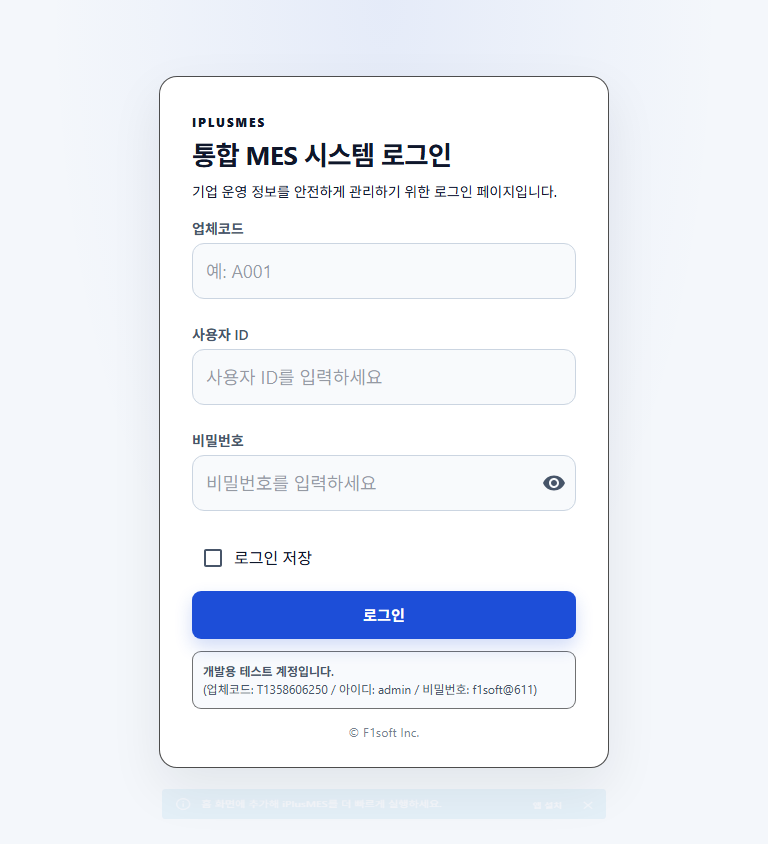
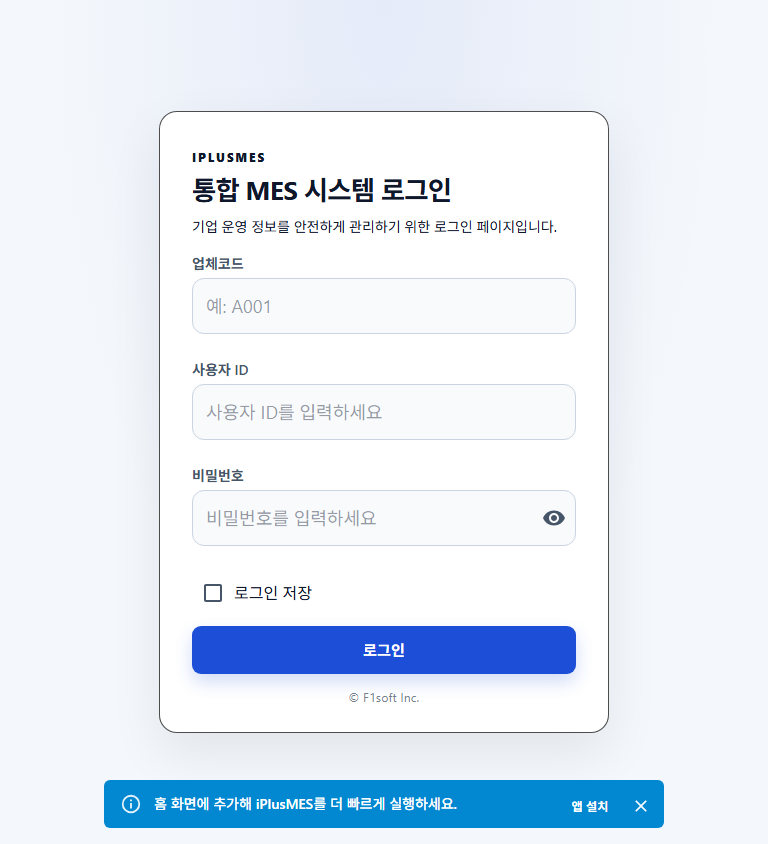
pwa 설치 기능 추가

diff --git a/docs/result/20261110/pwa-mobile-install/result.md b/docs/result/20261110/pwa-mobile-install/result.md
@@ -1,0 +1,42 @@
+# iPlusMES 모바일 PWA 설치 지원 결과
+
+## 작업 내용
+
+- `frontend/public/manifest.webmanifest`, 192/512 PWA 아이콘, 180 iOS touch icon과 `frontend/index.html`의 설치 메타데이터를 추가했다.
+- 기존 브랜드 push 아이콘을 기준으로 크기별 아이콘을 만들었다.
+- 앱 root에 설치 안내를 추가했다. 지원 브라우저는 사용자 클릭 시 native 설치 prompt를 열고, iOS는 공유 메뉴의 홈 화면 추가 방법을 안내한다.
+- 사용자가 설치 안내를 닫으면 다시 표시하지 않으며, 설치 완료/standalone 실행에서도 숨긴다. OS 알림 권한은 요청하지 않는다.
+- 기존 `/sw.js`, Web Push 등록 흐름, backend, API와 DB는 변경하지 않았다. 오프라인 캐시는 제공하지 않는다.
+
+## 검증
+
+- 통과: `npm run test -- tests/pwa-install-prompt.test.tsx tests/pwa-manifest.test.ts tests/push-service-worker.test.ts` — 16 tests
+- 통과: `npm run build`
+- 통과: `npx oxlint src/shared/components/PwaInstallPrompt.tsx src/App.tsx tests/pwa-install-prompt.test.tsx tests/pwa-manifest.test.ts tests/pwa-install.browser.mjs`
+- 통과: `node tests/pwa-install.browser.mjs` — 375px, 768px, 1280px, iOS 수동 설치 안내 및 manifest 확인
+- 통과: production build에 manifest 및 세 아이콘이 생성됨
+- 기존 로그인 통합 테스트 10개 중 9개 통과. 1개는 현재 화면의 MES 문구 대신 이전 ERP 문구를 기대하는 기존 assertion 불일치로 실패하며, PWA 변경 범위와 무관해 수정하지 않았다.
+
+## 브라우저 캡처
+
+- `screenshots/pwa-install-375px.png`
+- `screenshots/pwa-install-768px.png`
+- `screenshots/pwa-install-1280px.png`
+- `screenshots/pwa-install-ios-manual.png`
+
+캡처에서는 개발용 계정 정보를 제외했다. 브라우저 설치 테스트는 이미 실행 중이던 iPlusMES 개발 서버 `http://127.0.0.1:4173`을 재사용했다.
+
+## 운영 메모
+
+- 실제 설치에는 production에서 HTTPS가 필요하다. localhost는 개발 테스트용 secure context로 사용할 수 있다.
+- 브라우저 설치 가능성/메뉴는 브라우저 정책에 따르며, iOS에서는 사용자가 공유 메뉴에서 직접 홈 화면 추가를 선택해야 한다.
+- Web Push는 설치 여부와 별도이며 기존 사용자 명시 opt-in 흐름을 따른다.
+- 오프라인 사용과 API 데이터 캐싱은 구현하지 않았다.
+
+## 커밋 메시지 제안
+
+```text
+feat: add mobile PWA installation
+
+Add install metadata and an in-app installation guide for supported mobile browsers.
+```
